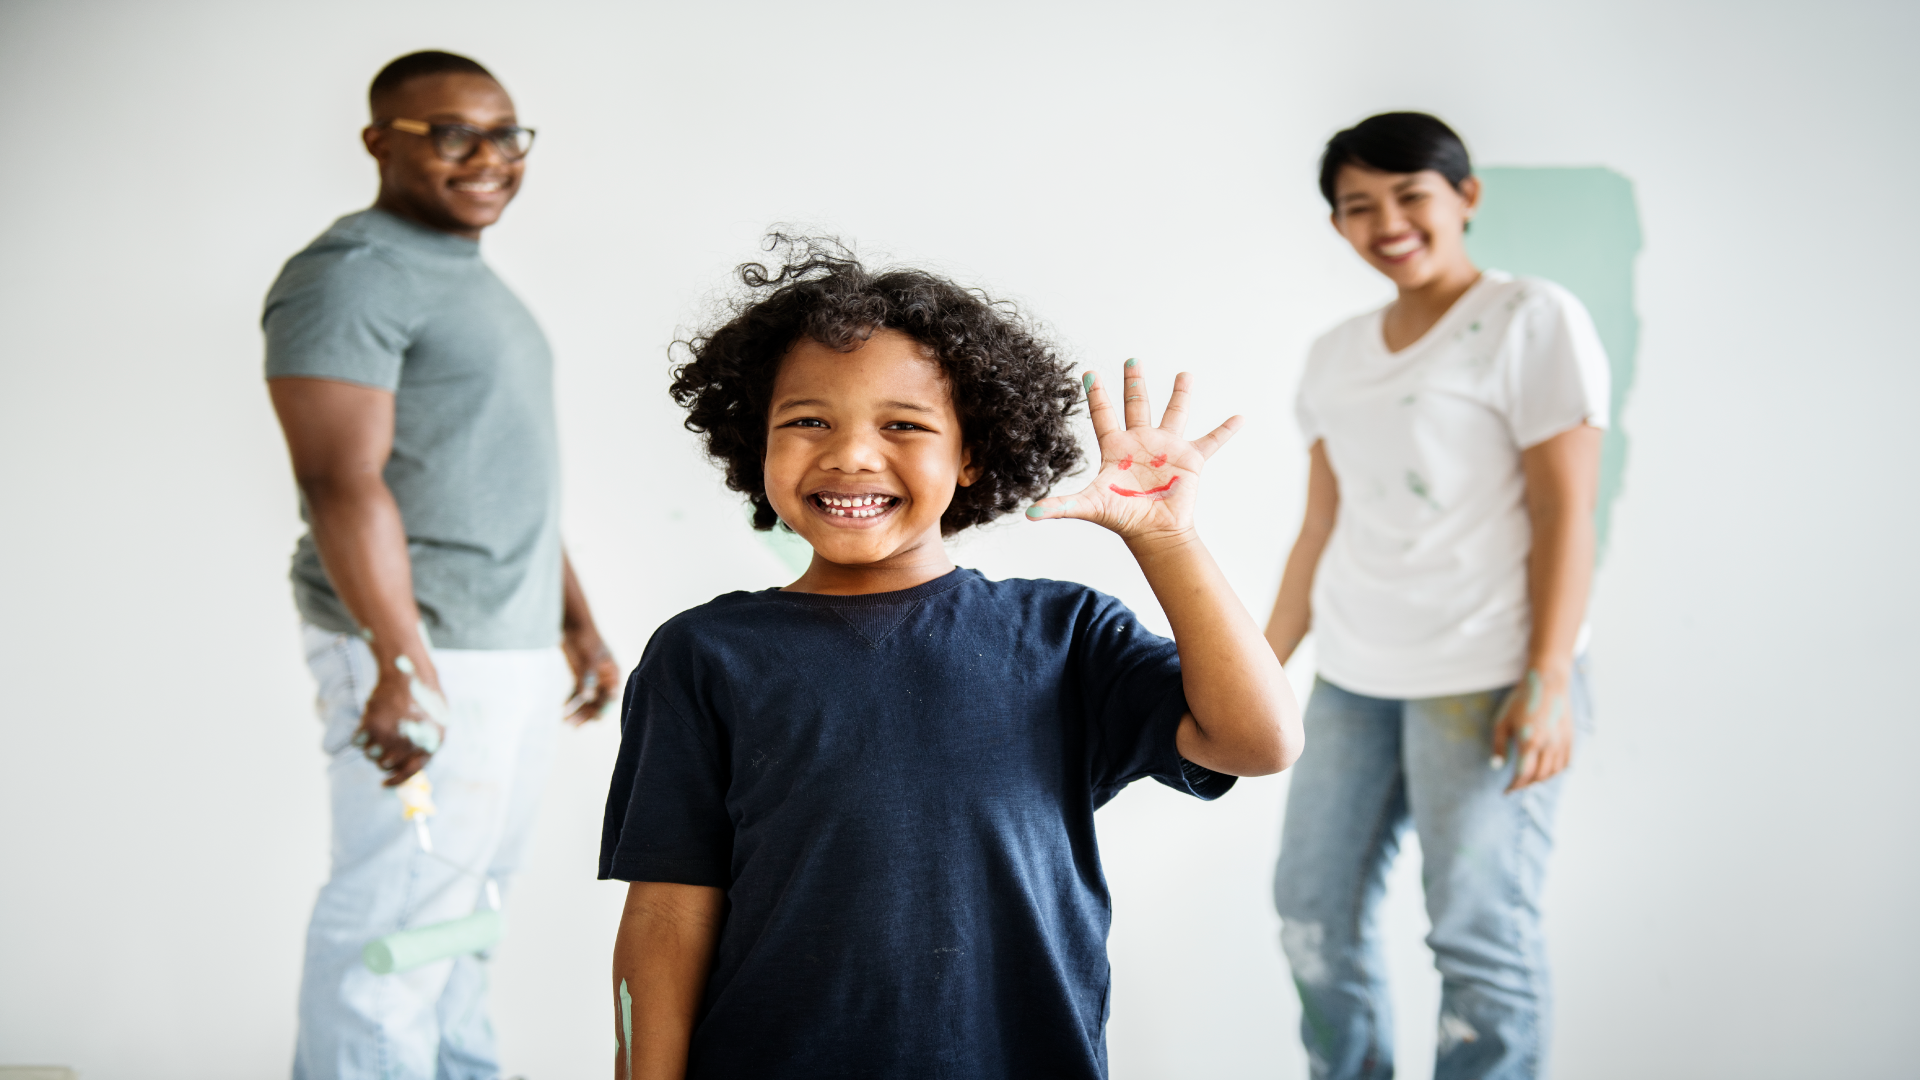
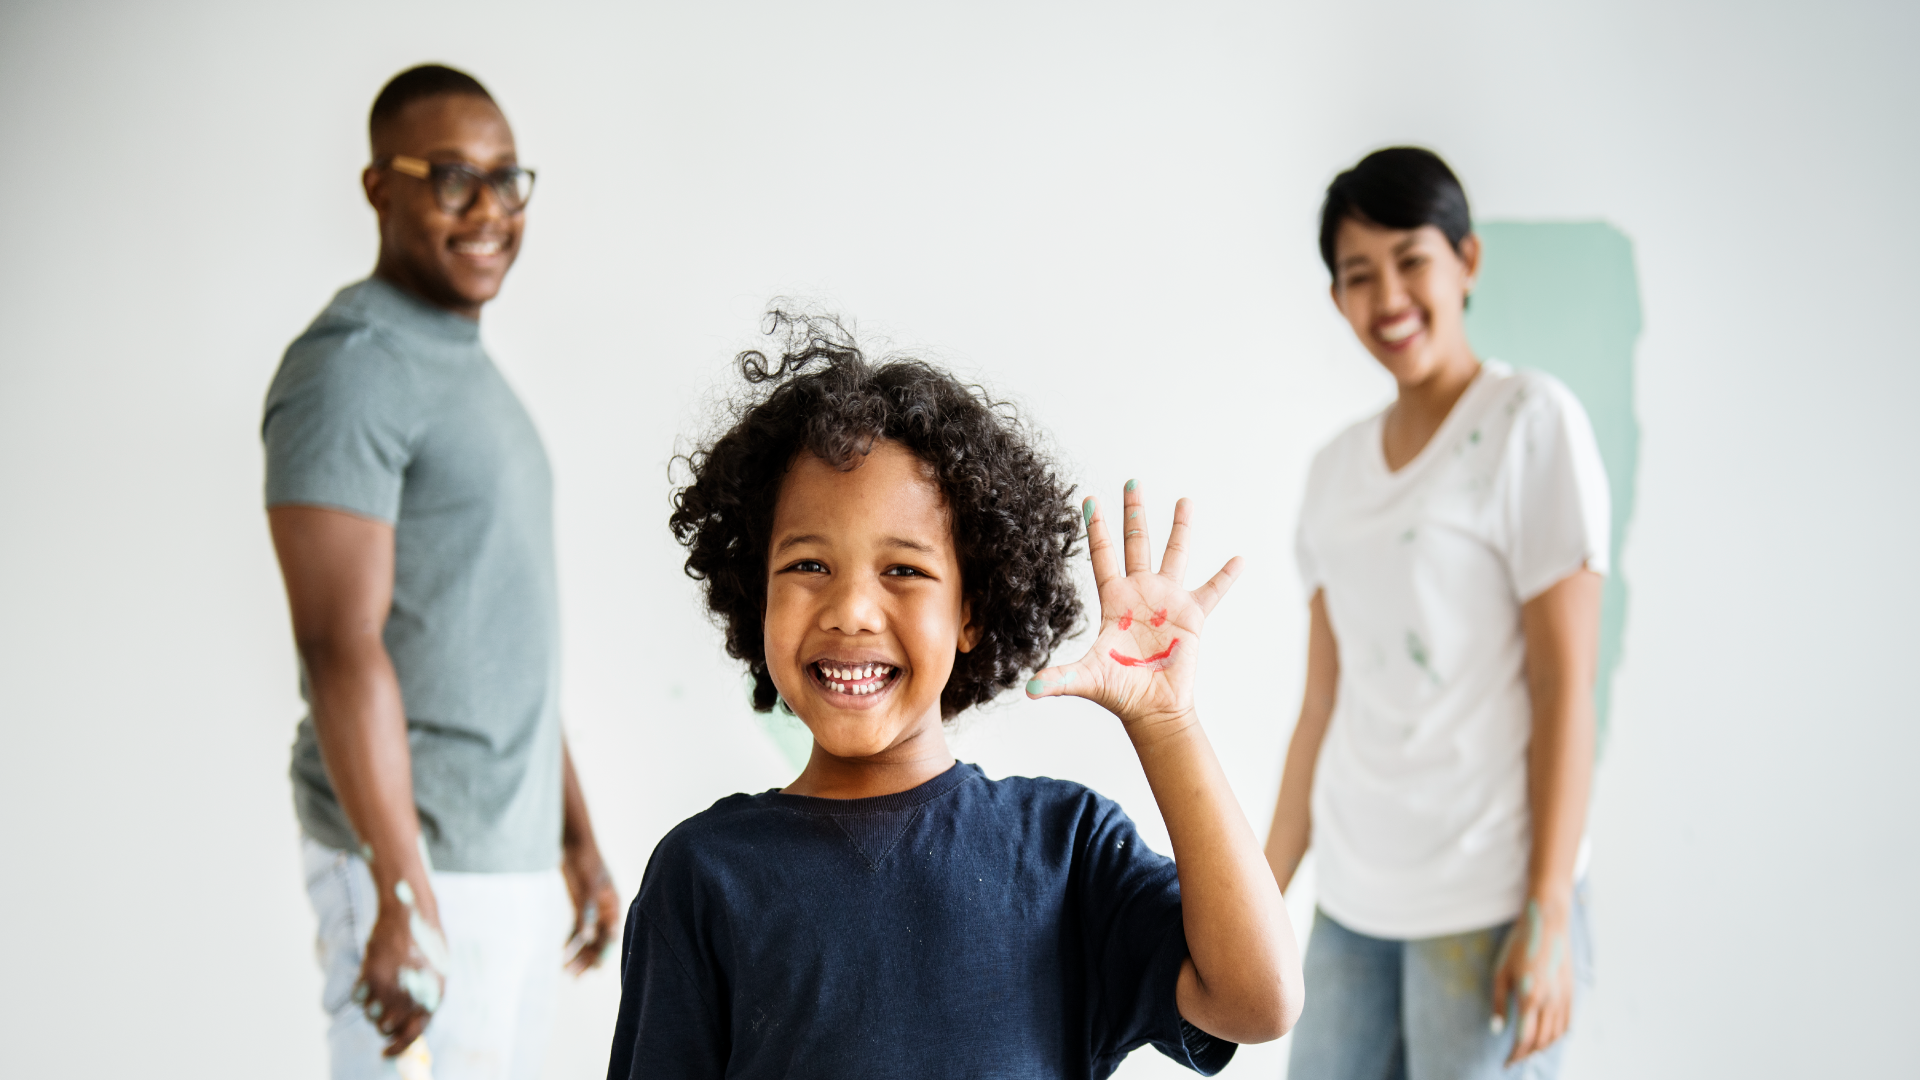
new images

diff --git a/public/mockups/net/ambassador-about-us.html b/public/mockups/net/ambassador-about-us.html
@@ -144,7 +144,7 @@
             </div>
 
             <div>
-                <img src="./img/abour_us_img.jpg" alt="A physician">
+                <img src="./img/abour_us_img.png" alt="A physician">
             </div>
 
             <div class="jumbotron bg-white about-us-our-history-container">

diff --git a/public/mockups/net/css/responsive_about_us.css b/public/mockups/net/css/responsive_about_us.css
@@ -14,7 +14,7 @@
     height: 100%;
     z-index: 1;
     opacity: 0.3;
-    background-image: url('../img/about_us_bg.jpg');
+    background-image: url('../img/about_us_bg.png');
     background-repeat: no-repeat;
     background-position: 50% 0;
     background-size: 100% 100%;
